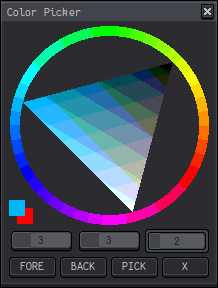
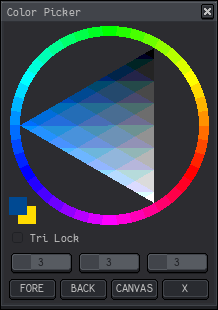
Update Readme.

diff --git a/README.md b/README.md
@@ -10,25 +10,31 @@ To download this script, click on the green Code button above, then select Downl
 
 ## Usage
 
-To use this script, open Aseprite. In the menu bar, go to `File > Scripts > Open Scripts Folder`. Move the Lua script into the folder that opens. Return to Aseprite; go to `File > Scripts > Rescan Scripts Folder` (the default hotkey is `F5`). The script should now be listed under `File > Scripts`. Select `aseTriPicker.lua` to launch the dialog.
+To use this script, open Aseprite. In the menu bar, go to `File > Scripts > Open Scripts Folder`. Move the Lua script into the folder that opens. Return to Aseprite; go to `File > Scripts > Rescan Scripts Folder`. The script should now be listed under `File > Scripts`. Select `aseTriPicker.lua` to launch the dialog.
 
 If an error message in Aseprite's console appears, check if the script folder is on a file path that includes characters beyond ASCII, such as 'é' (e acute) or 'ö' (o umlaut).
 
-A hot key can be assigned to the script by going to `Edit > Keyboard Shortcuts`. The search input box in the top left of the shortcuts dialog can be used to locate the script by its file name. The dialog can be closed with `Alt+X`. The foreground color can be retrieved with `Alt+F`; the background color, with `Alt+B`. `Alt+I` will pick a color from the sprite canvas at the cursor position.
+A hot key can be assigned to the script by going to `Edit > Keyboard Shortcuts`. The search input box in the top left of the shortcuts dialog can be used to locate the script by its file name.
 
-When the dialog has focus, left click will change the foreground color and right click will adjust the background color. Clicking on the swatches in the bottom-left corner will swap the fore and background color.
+The dialog can be closed with `Alt+X`. The foreground color can be retrieved with `Alt+F`; the background color, with `Alt+B`. `Alt+A` will pick a color from the sprite canvas at the cursor position. When the default theme font is used, these shortcuts will be underlined.
+
+When the dialog canvas has focus, left click will change the foreground color; right click will adjust the background color. Clicking on the swatches in the bottom-left corner will swap the fore and background color. Clicking and dragging within the hue ring will change the unquantized hue. When the `Shift` key is held down, this change happens in 15 degree steps.
 
 ![Expanded Screen Cap](screenCap1.png)
 
-When the picker is wider than it is high, it will show text information about the color. Hue is expressed in degrees; other color data is expressed in percentages.
-
-In HSV, when a color's saturation is zero, its hue is undefined. When it's value is zero, both its hue and its saturation are undefined. This is easier to understand by visualizing the HSV model as an upside-down cone.
+When the picker is wider than it is high, it will show text information about the color. Hue is expressed in degrees; other data, in percentages. When a color's saturation is zero, its hue is undefined. When its value is zero, both hue and saturation are undefined. This is easier to understand by visualizing the HSV model as an upside-down cone, where black is at the tip.
 
 ![Quantized Screen Cap](screenCap2.png)
 
-Colors can be quantized to a bit depth in RGB using the sliders beneath the canvas. Beware that quantization will lead to significant hue shift between colors within the same shading triangle.
+Colors can be quantized to a bit depth in RGB using the sliders beneath the canvas. Quantization will lead to significant hue shift between colors within the same shading triangle.
 
-Ultimately, the [HSV](https://en.wikipedia.org/wiki/HSL_and_HSV#Disadvantages) method for representing color is deeply flawed. Neither this color picker, nor HSV in general, should be used to create harmonious colors or determine shades of a hue. I would encourage readers to research alternatives like [CIE LAB](https://en.wikipedia.org/wiki/CIELAB_color_space), [SRLAB2](https://www.magnetkern.de/srlab2.html), [OK LAB](https://bottosson.github.io/posts/oklab/), [HSLuv](https://www.hsluv.org/) or [Okhsl](https://bottosson.github.io/posts/colorpicker/). An SR LAB 2 picker is available at [AsepriteAddons](https://github.com/behreajj/AsepriteAddons); an Okhsl picker can be found [here](https://github.com/behreajj/asepriteokhsl).
+![Lock Tri](screenCap3.png)
+
+The triangle's rotation can be locked by clicking the check box. A white reticle will indicate the current hue position.
+
+## Caveat
+
+Ultimately, the [HSV](https://en.wikipedia.org/wiki/HSL_and_HSV#Disadvantages) color representation is deeply flawed. Neither this color picker, nor HSV in general, should be used to create harmonious colors or determine shades of a hue. I would encourage readers to research alternatives like [CIE LAB](https://en.wikipedia.org/wiki/CIELAB_color_space), [SRLAB2](https://www.magnetkern.de/srlab2.html), [OK LAB](https://bottosson.github.io/posts/oklab/), [HSLuv](https://www.hsluv.org/) or [Okhsl](https://bottosson.github.io/posts/colorpicker/). An SRLAB2 picker is available at [AsepriteAddons](https://github.com/behreajj/AsepriteAddons); an Okhsl picker can be found [here](https://github.com/behreajj/asepriteokhsl).
 
 *This script is intended for use in the standard RGB (sRGB) color space only.* Colors may appear washed out when using other color spaces, such as Display P3 or Adobe RGB.
 
@@ -38,4 +44,4 @@ To modify these scripts, see Aseprite's [API Reference](https://github.com/asepr
 
 ## Issues
 
-This script was tested in Aseprite version 1.3.8.1 on Windows 10. Its user interface elements were tested with 100% screen scaling and 200% UI scaling. Please report issues in the issues section on Github.
+This script was tested in Aseprite version 1.3.9 on Windows 10. Its user interface elements were tested with 100% screen scaling and 200% UI scaling. Please report issues in the issues section on Github.
